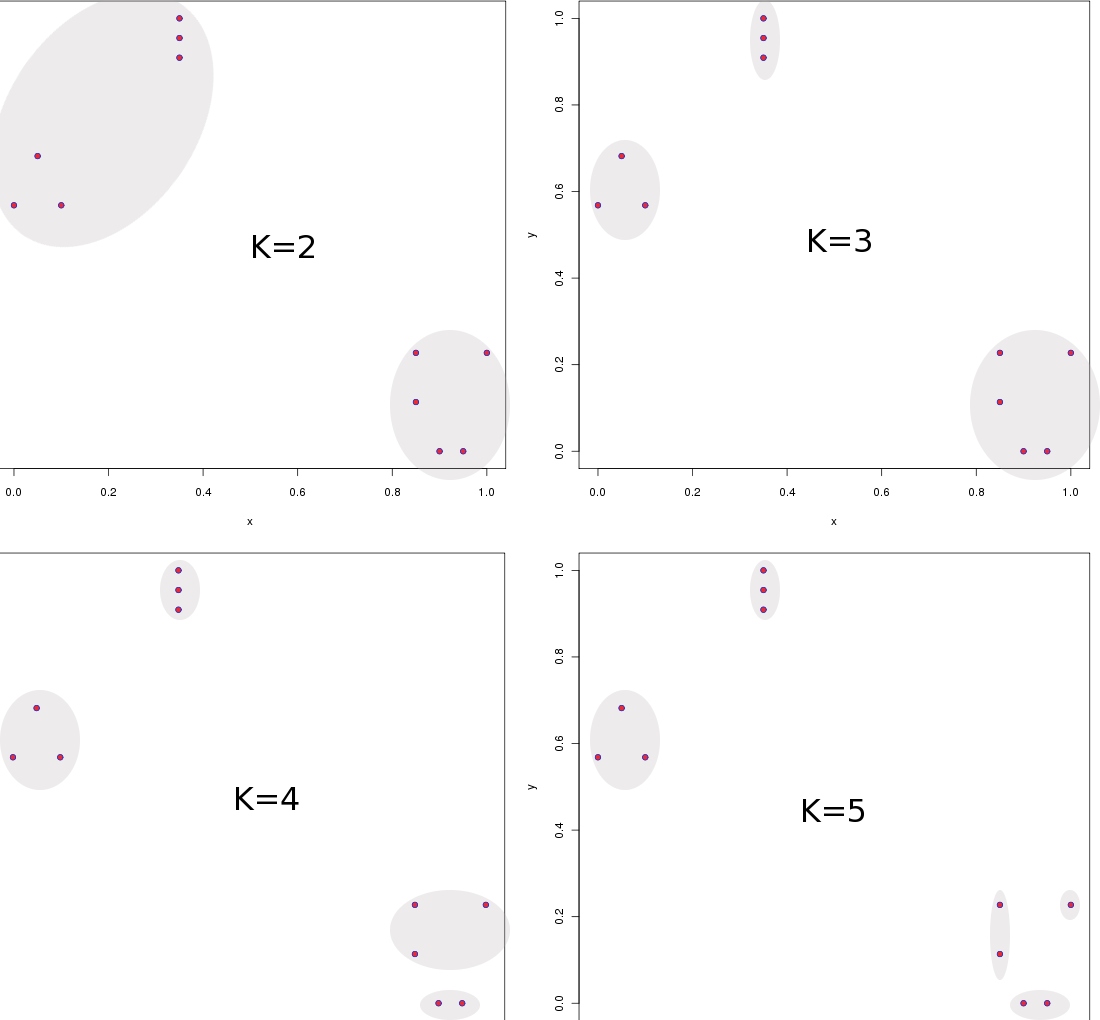
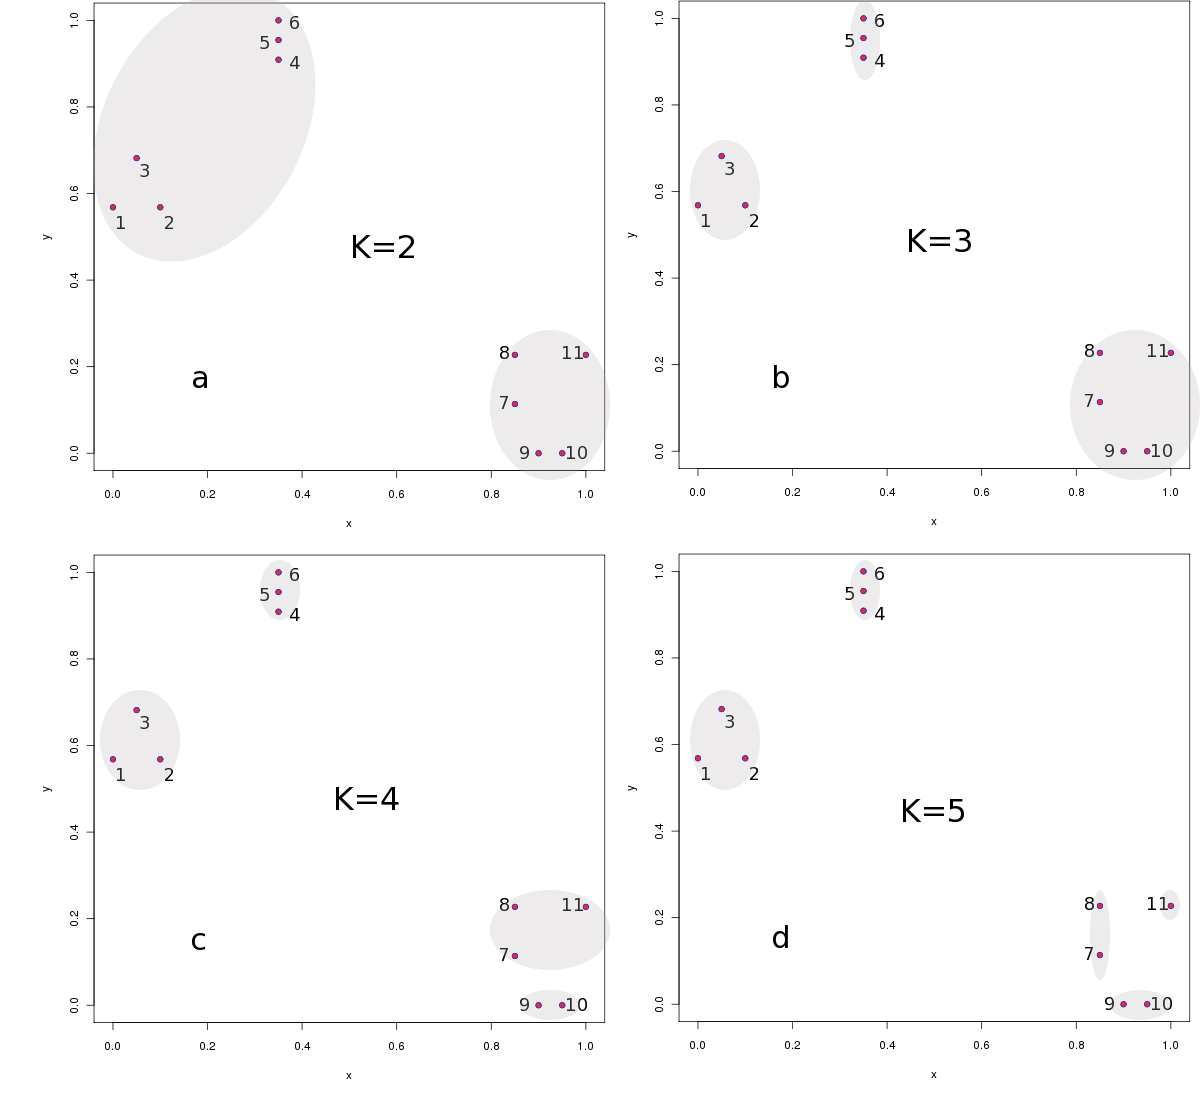
more changes to example figure for validation scores.

diff --git a/Appendix/appendix2a.tex b/Appendix/appendix2a.tex
@@ -234,17 +234,18 @@ this concepts can be seen in Figure \ref{fig:concomsep}.
 \begin{figure}
 \centering
 \includegraphics[scale=0.3]{Appendix/consilcom.png}
-\caption{In this  figure we illustrate in a  bidimensional toy example
-  the  concepts  of compactness,  connectedness,  and separation.   In
-  images a)  trough d) we  have solutions for  hierarchical clustering
-  considering $K=[2-5]$  clusters. For the  case of three  clusters we
-  can  see that  compared to  the other  solutions, it  appears  to be
-  composed of  more compact and  separated groups, this fact  would be
-  quantified in  clValid with the asw  index and the  Dunn Index. For
-  the two cluster  solution we see that it  is clearly more connected
-  than  all other solutions,  but we  can also  appreciate that  as we
-  group  data into  more clusters  connectivity will  be progressively
-  lost just due to the fact of splitting data appart.}
+\caption{We  illustrate in  this figure  the concepts  of compactness,
+  connectedness, and separation in a bidimensional example.  In images
+  (a)  trough  (d)  we  have  solutions  for  hierarchical  clustering
+  considering  $K=[2-5]$ clusters.   For the  case of  three clusters,
+  i.e. $K=3$,  we see that compared  to the other  solutions, this one
+  stands out as  being composed of more compact  and separated groups,
+  this fact would be quantified in  clValid with the asw index and the
+  Dunn Index.  For  the two cluster solution in (a) we  see that it is
+  clearly more  connected than  all other solutions,  but we  can also
+  appreciate that  as we group  data into more  clusters, connectivity
+  will be progressively  lost just due to the fact  of dat being split
+  apart.}
 \label{fig:concomsep}
 \end{figure}  
 
@@ -337,9 +338,19 @@ Stability  measures  are a  special  type  of  internal measure  which
 evaluate  the   consistency  of  a  clustering   result  by  comparing
 clusterings after sequential removal of a column of data.
 
+\subsubsection{Average Proportion of Non-overlap (APN)}
+
+\begin{gather}
+APN(\mathcal{C}) - \frac{1}{MN} \sum_{i=1}^{N}\sum_{l=1}^{M} \left( 1
+- \frac{n(C^{i,j} \cap C^{i,0})}{n(C^{i,0})} \right)
+\end{gather}  
+
+
+\subsubsection{Average Distance (AD)}
 
 
 
+\subsubsection{Average Distance Between Means (ADM)}
 
 
 

diff --git a/Chapter2/chapter2.tex b/Chapter2/chapter2.tex
@@ -530,7 +530,7 @@ using  appropriate validated clustering  analysis techniques.
 
 \begin{figure}
  \centering
-\includegraphics[angle=0, scale=0.9]{Chapter2/noarna_val.png}
+\includegraphics[angle=0, scale=0.8]{Chapter2/noarna_val.png}
 \caption{Cluster validity  scores for the non-ARNA dataset.  It can be
   seen  clearly  that  the   optimal  method  for  clustering  is  the
   hierarchical one,  as measured by  lower values in  the connectivity
